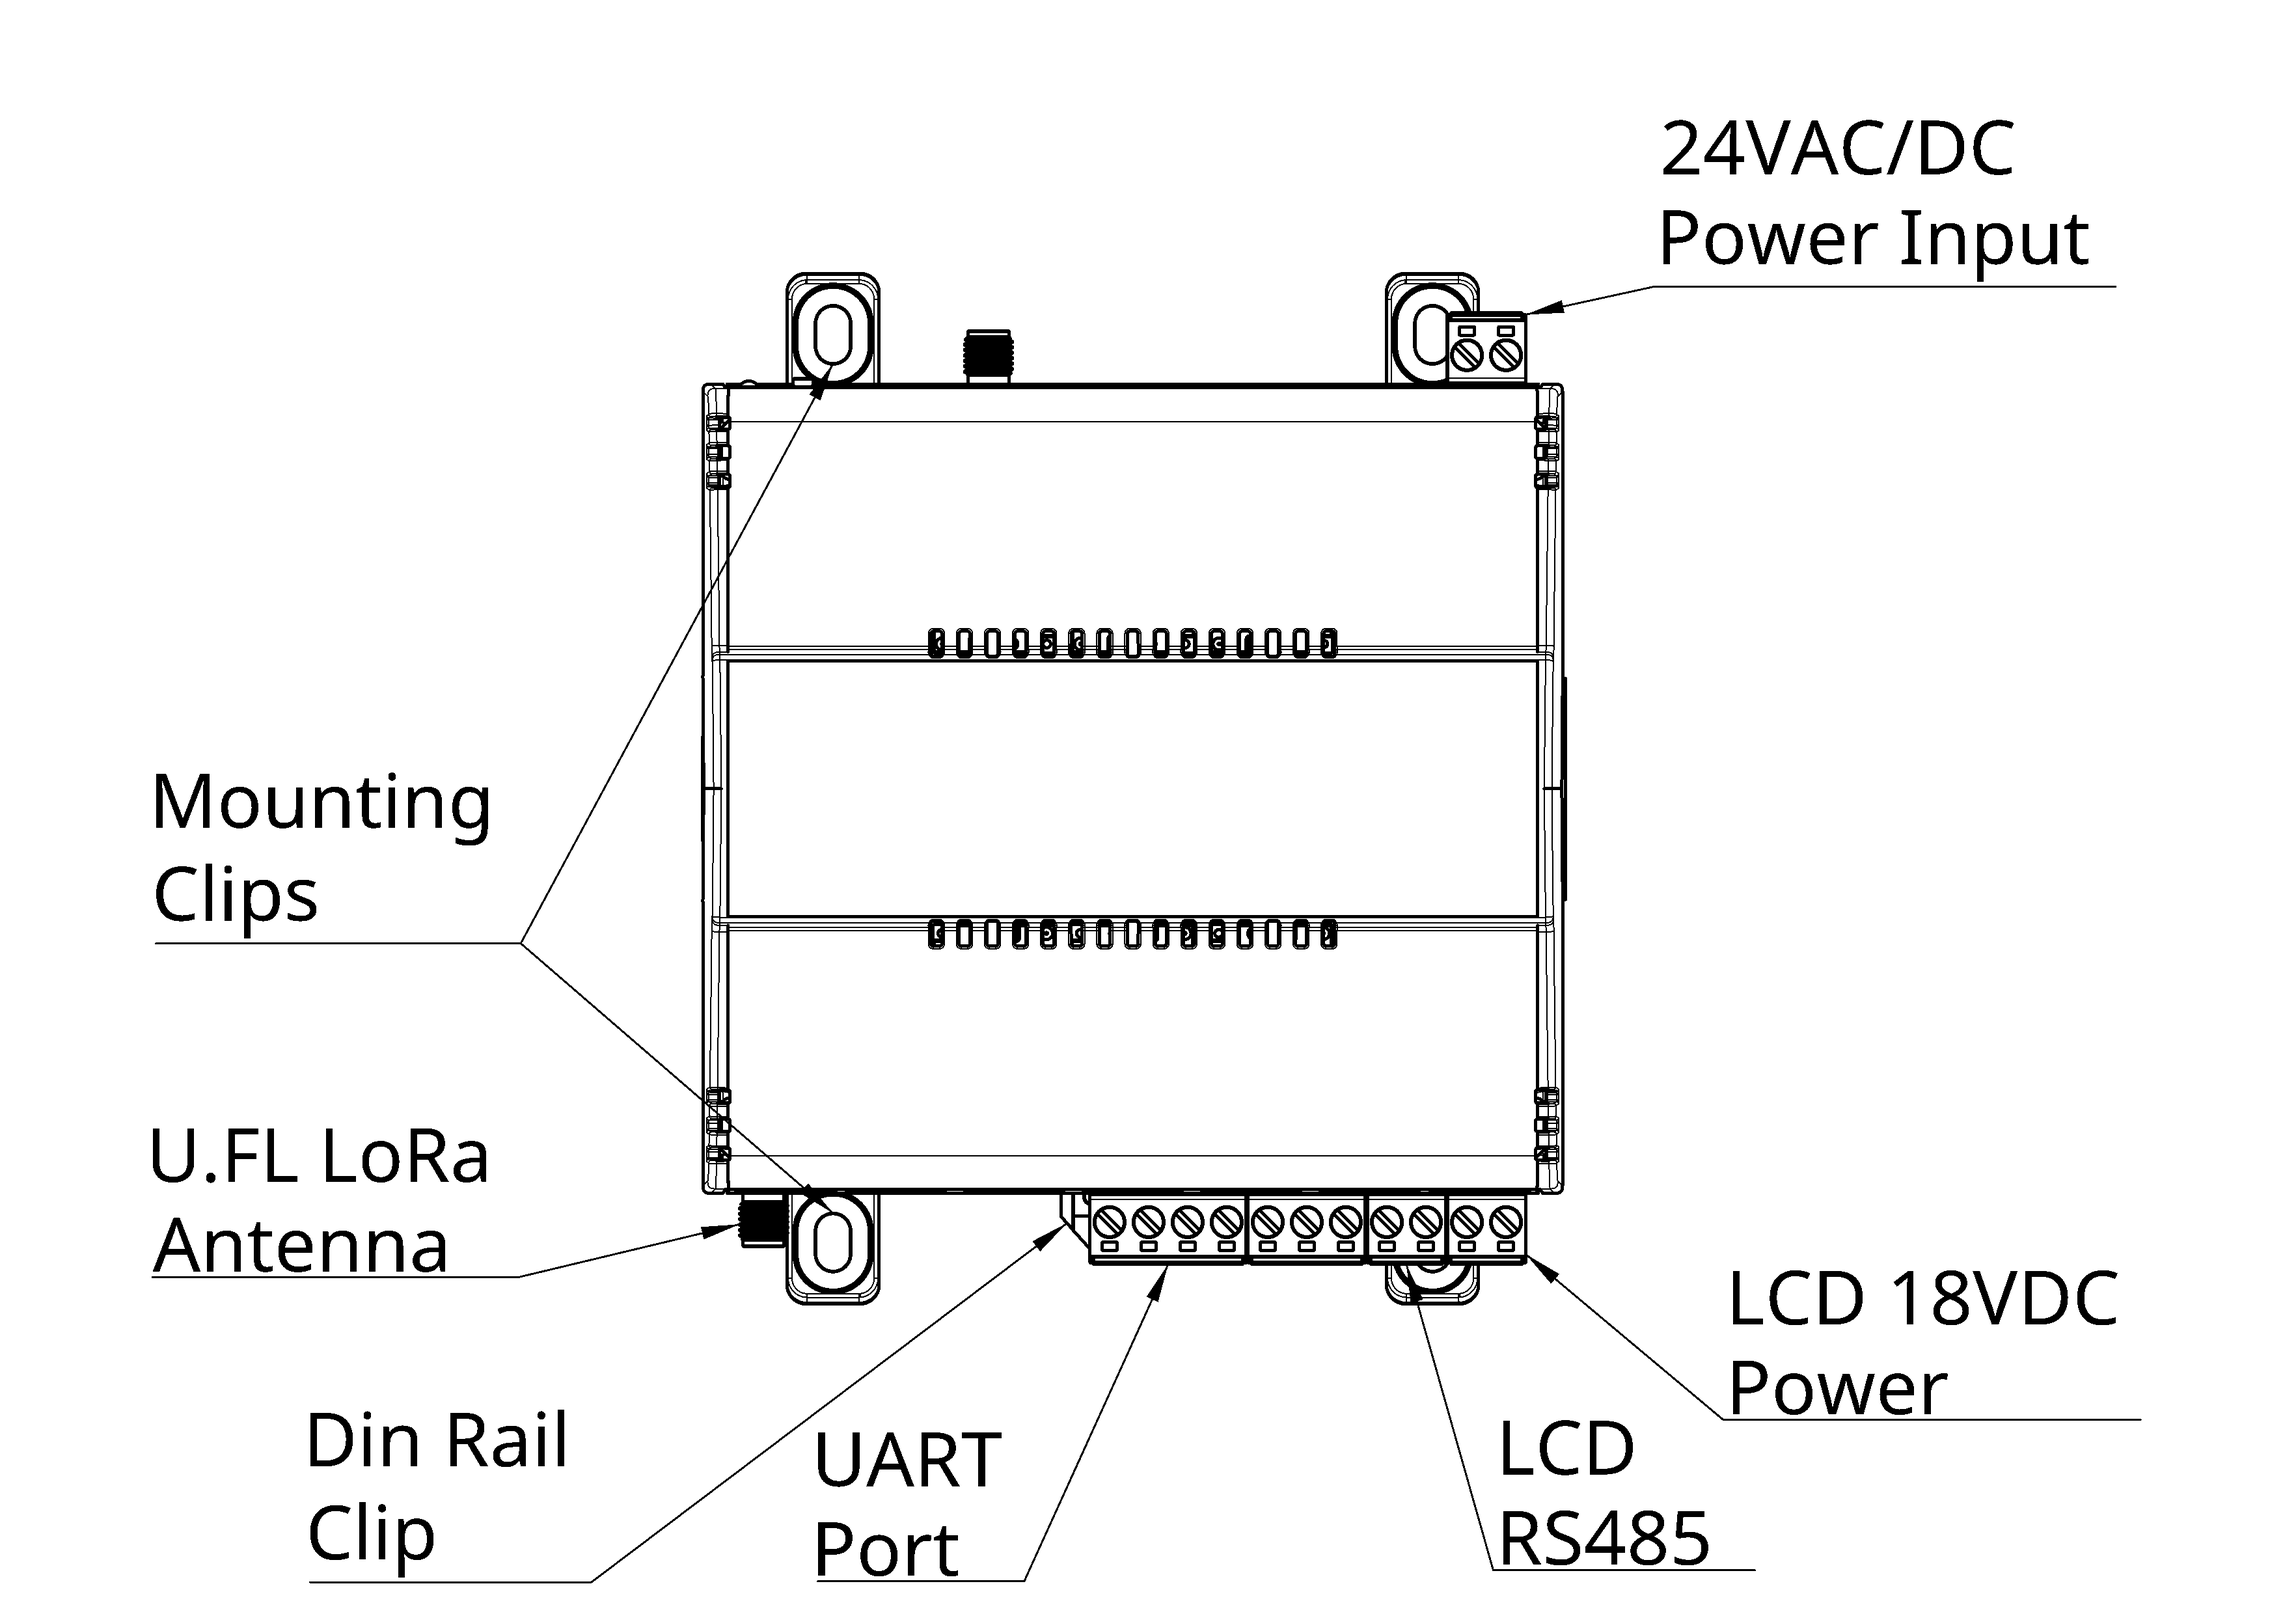
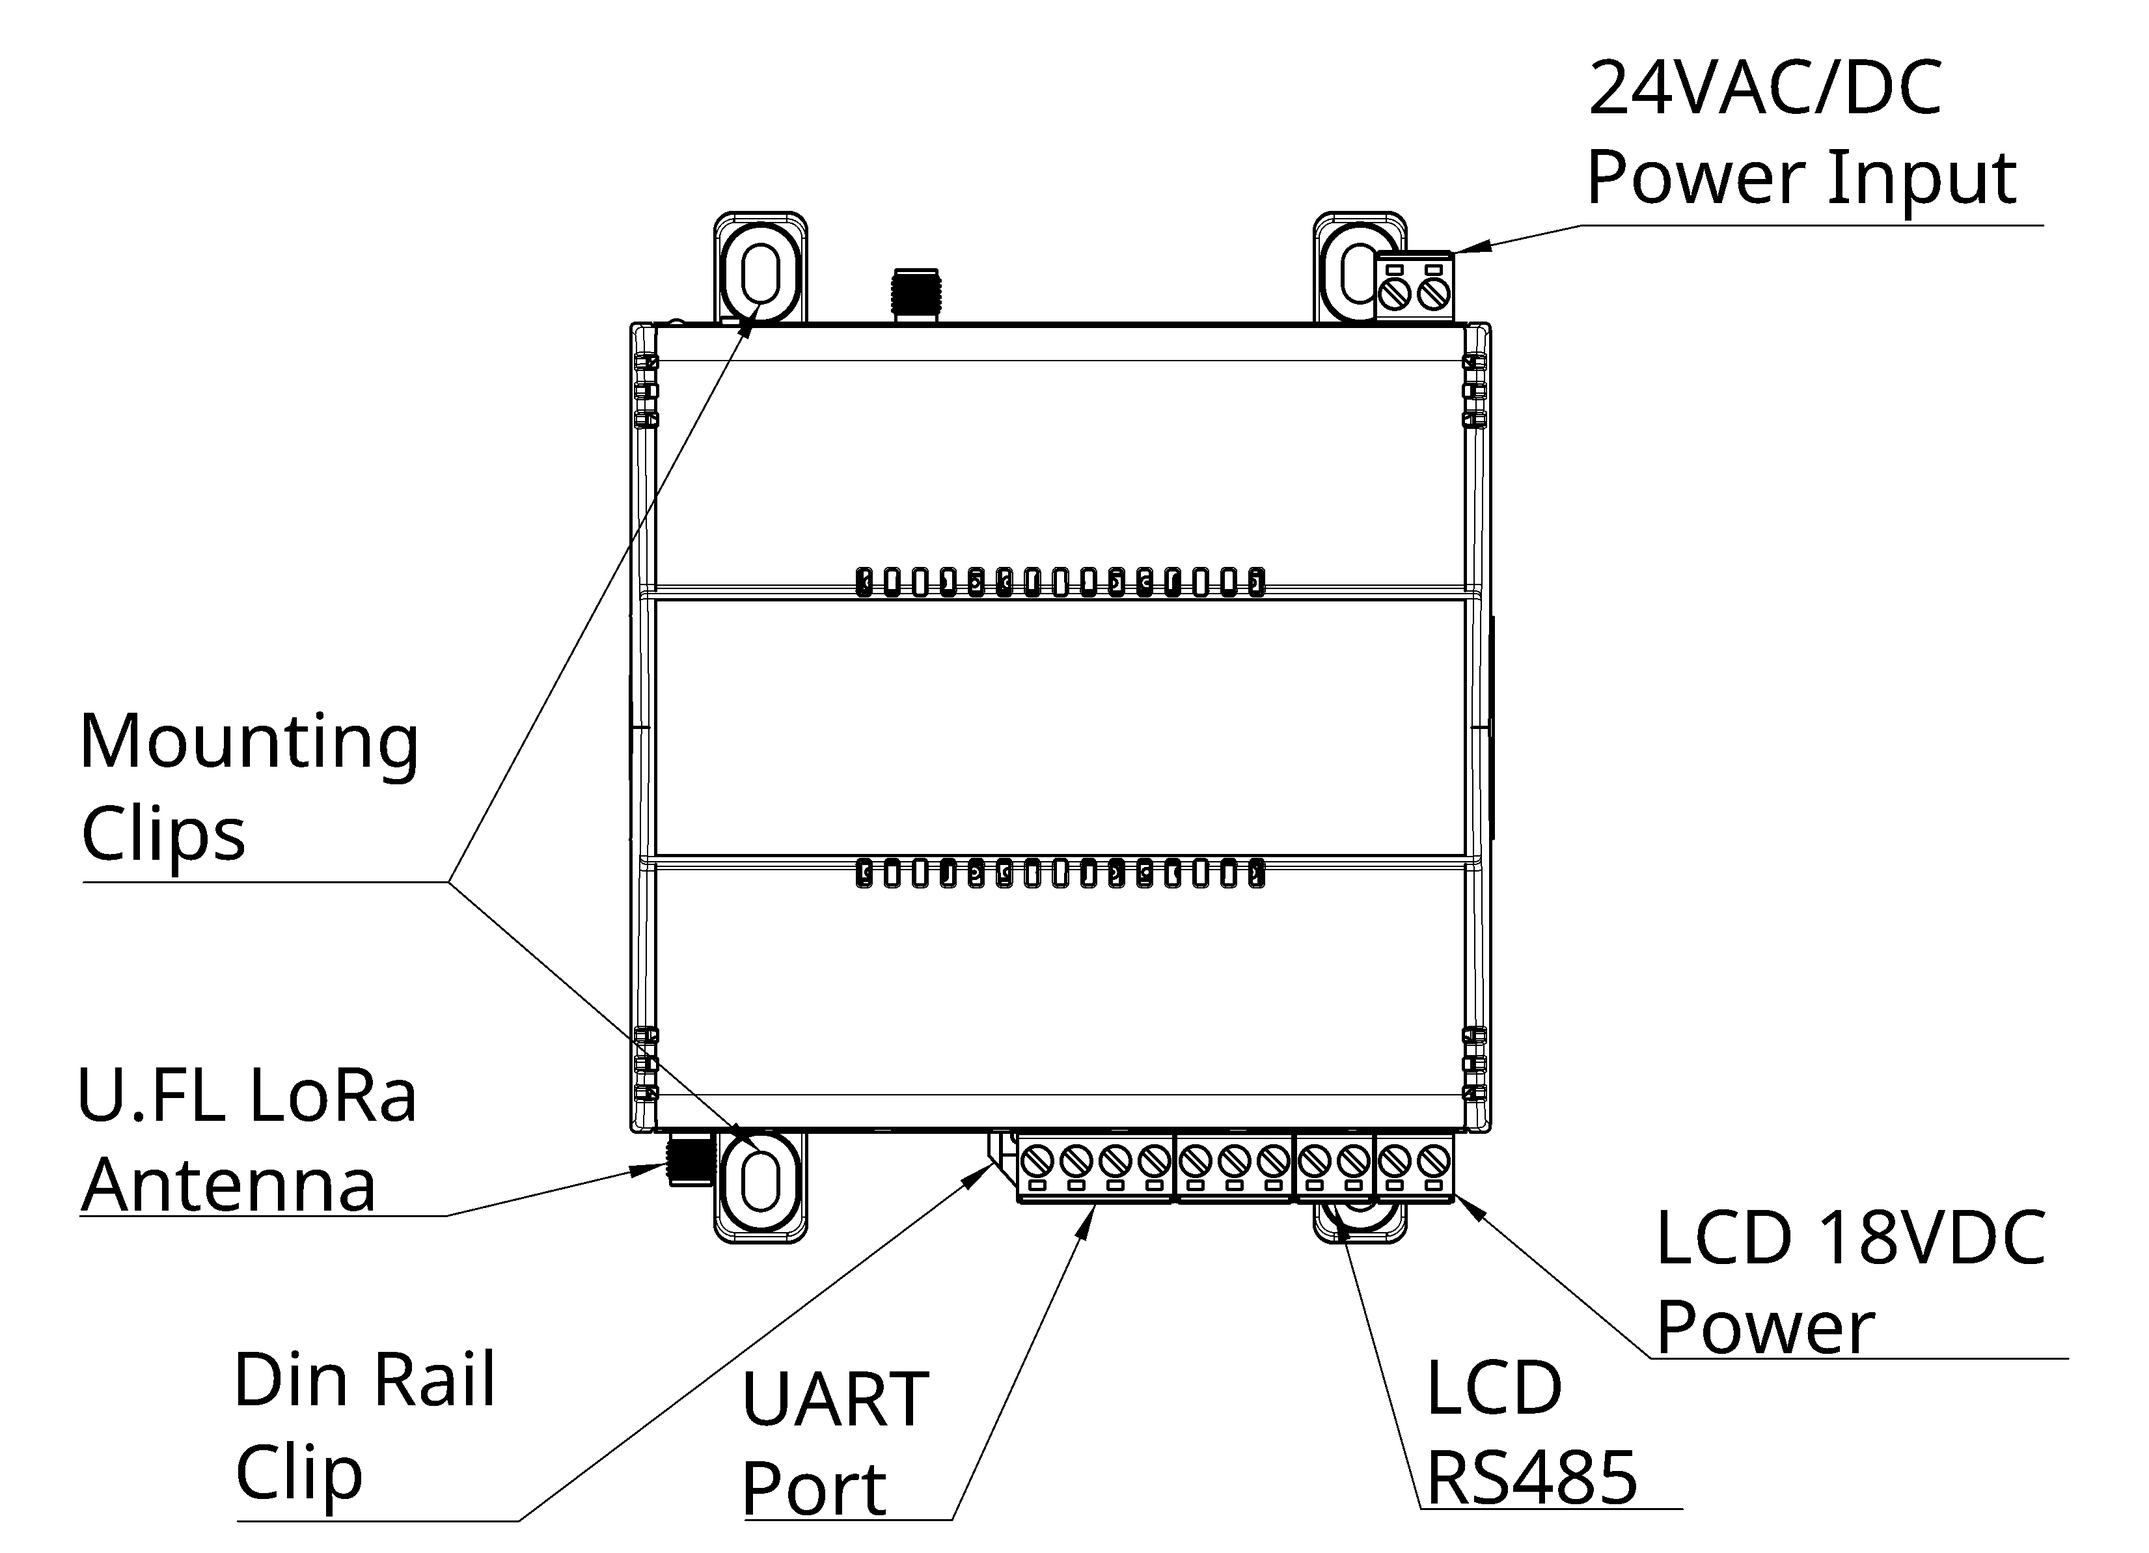
Crop and optimise the eight guide images; add PR draft
Whitespace trimmed from the eight images used by the Quick Start Guide's
Hardware Overview and mounting sections. Total 28.9 MB -> 13.6 MB with no
loss of subject detail:

  LCD-Mounting-v3               5500x4125 -> 4350x3555   24.9 MB -> 10.1 MB
  LCD-Clip-Release-v2           2245x1587 -> 2245x1262    1.6 MB ->  1.2 MB
  ZoneConnex-FixingMounting-v2  2245x1587 -> 1048x1587  (portrait crop)
  Top/Bottom-Retaining-Clips-v2 2245x1587 -> ~1900x1400
  ACB-ZC Front/Top/Bottom views 3508x2480 -> per-view crops

These are the assets the layout percentages in 0cd1fc6 were computed
against — the tighter crops are why the Fixings photo needed 33% rather
than 70% to match the DIN rail photo's rendered height.

Pre-crop versions are left untracked in img/_originals/ and remain
recoverable from git history; they are deliberately not committed to
avoid carrying 28 MB of duplicates.

diff --git a/PR-DRAFT.md b/PR-DRAFT.md
@@ -1,0 +1,65 @@
+## Summary
+
+The three Zoneconnex guides (plus the MIA app manual) now have **Markdown as the
+single source of truth**, with a `pdf-toolkit/` that builds branded print PDFs at
+both A4 and A5 from those same files. The superseded `Zoneconnex-Guides-v1.4-build/`
+tree (39 MB, 76 files) has been removed.
+
+The approved `.docx` content is preserved exactly — page counts were verified
+against the previous outputs at every step:
+
+| Guide | A4 | A5 |
+|---|---|---|
+| Zoneconnex INSTALL & USER MANUAL | 52 | 63 |
+| Zoneconnex Quick Start Guide | 18 | 19 |
+| Zoneconnex User Start Guide | 10 | 11 |
+| MIA App User Manual | 100 | 135 |
+
+The three Zoneconnex guides match their pre-existing page counts exactly. The MIA
+manual is new to the toolkit.
+
+Before deleting the v1.4 tree, every image in it was content-verified by SHA-256
+rather than by filename: 63 of 66 matched a file elsewhere in the repo byte for
+byte, and the 3 that did not are the same photographs at lower resolution
+(RGBA 2000×1500 vs the live RGB 5500×4125; mean per-channel difference 0.01–0.03
+once composited and resized). Nothing needed preserving.
+
+## What to review
+
+- **The guide `.md` content** under `docs/Zone Controller Stack/` — this is the
+  part that matters. It is now what the website serves *and* what the PDFs are
+  built from, so an error here shows up in both.
+- **That the Docusaurus site builds.** Verified: `npm run build` passes. The
+  broken-link warnings in that output are pre-existing and in unrelated docs
+  (`docs/tutorials/`, `docs/rubix-ce/`), not introduced here.
+
+## What to skim
+
+`pdf-toolkit/` internals — the CSS layers, `brand.py` passes and build script.
+It is a fair amount of machinery and reviewing it line by line is unlikely to be
+a good use of anyone's time. Happy to walk through it on a call instead.
+
+## Note for authors
+
+The PDF build expects a few markdown conventions, all documented in
+`pdf-toolkit/AUTHORING.md`:
+
+- Raw HTML must start **flush left** — indented HTML is parsed as a code block
+- Callouts are `<div class="callout-info|callout-warning|callout-danger">`
+- Images take `{.small}`, `{.medium}`, `{.large}`; inline icons are auto-detected
+- **No manual page breaks before an H1** — the page layer handles section flow
+
+These only affect the PDF build. The website renders the same files either way,
+so a guide that ignores them still publishes — it just prints wrong.
+
+## Engine note
+
+`pdf-toolkit/` carries a **pinned copy of a generic document engine** — see
+`pdf-toolkit/ENGINE-VERSION` for the version and its source. It builds
+standalone: no external dependency, no network fetch, nothing to install beyond
+pandoc and the Python packages already used here.
+
+Improvements flow engine → this repo, never the other way, so this project cannot
+silently fork the engine. `ENGINE-VERSION` also records the known differences
+from the pinned version, including one upstream fix this copy does not yet carry
+(harmless here — it only affects guides whose sole H1 is the title).
